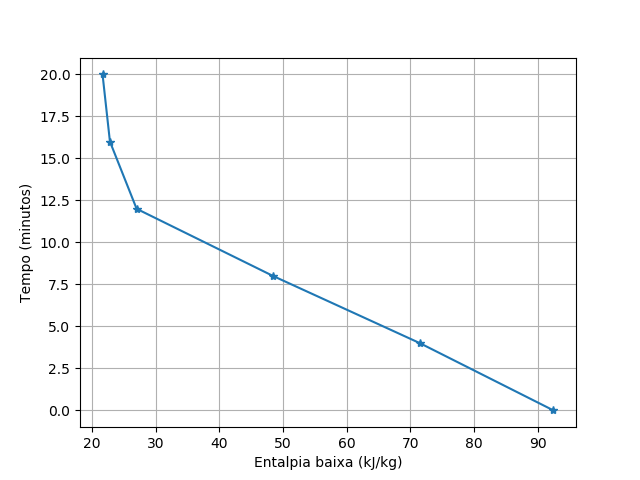
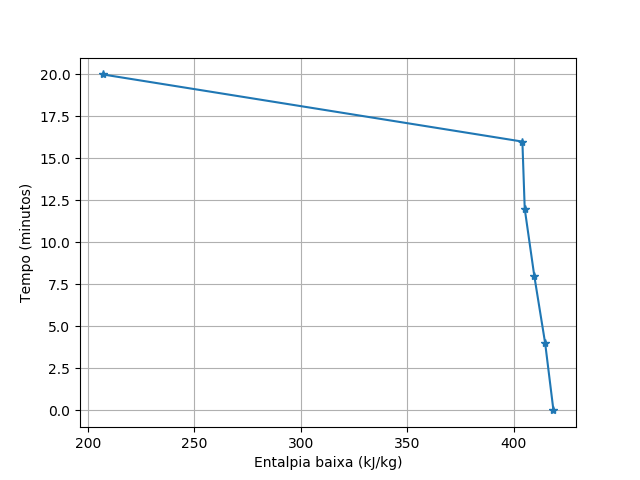
Novas atualizações

diff --git a/Relatorio_1.py b/Relatorio_1.py
@@ -1,0 +1,175 @@
+import matplotlib.pyplot as plt
+
+# dados coletados no experimento:
+
+tempo_min = [0, 4, 8, 12, 16, 20]
+temperatura_baixa = [22, 17, 11.5, 6.4, 5.4, 5]
+pressao_baixa = [0.268, 0.243, 0.258, 0.258, 0.268, 0.798]
+temperatura_alta = [22, 25.3, 30.2, 34.2, 37.5, 39.9]
+pressao_alta = [0.723, 0.798, 0.898, 0.968, 1.048, 1.088]
+entalpia_alta = [230.3, 235, 242, 247.8, 252.7, 256.2]
+entalpia_baixa = [418.7, 414.8, 409.7, 405.2, 404.1, 206.8]
+
+# cálculo das variações
+
+vetor_delta_entalpia_alta = [0, 0, 0, 0, 0, 0]
+vetor_delta_entalpia_baixa = [0, 0, 0, 0, 0, 0]
+
+# Qh
+
+aux = 0
+while(aux < (len(tempo_min) - 1)):
+    aux += 1
+    vetor_delta_entalpia_alta[aux] = entalpia_alta[aux] - entalpia_alta[0]
+
+# Ql
+
+aux = 0
+while(aux < (len(tempo_min) - 1)):
+    aux += 1
+    vetor_delta_entalpia_baixa[aux] = entalpia_baixa[aux] - entalpia_baixa[0]
+
+# Cálculo Beta no condensador
+
+beta = [0, 0, 0, 0, 0, 0]
+
+aux = 0
+while(aux < (len(tempo_min) -1)):
+    aux += 1
+    beta[aux] = (vetor_delta_entalpia_baixa[aux])/(vetor_delta_entalpia_alta[aux] - vetor_delta_entalpia_baixa[aux])
+
+# Cálculo do Beta linha no evaporador
+
+beta_linha = [0, 0, 0, 0, 0, 0]
+
+aux = 0
+while(aux < (len(tempo_min) - 1)):
+    aux += 1
+    beta_linha[aux] = (vetor_delta_entalpia_alta[aux])/(vetor_delta_entalpia_alta[aux] - vetor_delta_entalpia_baixa[aux])
+
+# delta entalpia alta
+
+plt.ylabel(r'$\Delta$' + 'Qh (kJ/kg)')
+plt.xlabel('Tempo (minutos)')
+plt.title('')
+plt.grid()
+
+plt.plot(tempo_min, vetor_delta_entalpia_alta, '*-')
+plt.savefig('figuras/delta_entalpia_alta_x_tempo.png')
+
+# tempo x pressao alta
+
+plt.cla() # clear axis
+plt.clf() # clear figure
+
+plt.xlabel('Tempo (minutos)')
+plt.ylabel('Pressão alta (MPa)')
+plt.title('')
+plt.grid()
+
+plt.plot(tempo_min, pressao_alta, '*-')
+plt.savefig('figuras/tempo_x_pressao_alta.png')
+
+# tempo x entalpia alta
+
+plt.cla() # clear axis
+plt.clf() # clear figure
+
+plt.xlabel('Tempo (minutos)')
+plt.ylabel('Entalpia alta (kJ/kg)')
+plt.title('')
+plt.grid()
+
+plt.plot(tempo_min, entalpia_alta, '*-')
+plt.savefig('figuras/tempo_x_entalpia_alta.png')
+
+# tempo x temperatura baixa
+
+plt.cla() # clear axis
+plt.clf() # clear figure
+
+plt.xlabel('Tempo (minutos)')
+plt.ylabel('Temperatura baixa (Celsius)')
+plt.title('')
+plt.grid()
+
+plt.plot(tempo_min, temperatura_baixa, '*-')
+plt.savefig('figuras/tempo_x_temperatura_baixa.png')
+
+# tempo x temperatura alta
+
+plt.cla() # clear axis
+plt.clf() # clear figure
+
+plt.xlabel('Tempo (minutos)')
+plt.ylabel('Temperatura alta (Celsius)')
+plt.title('')
+plt.grid()
+
+plt.plot(tempo_min, temperatura_alta, '*-')
+plt.savefig('figuras/tempo_x_temperatura_alta.png')
+
+# tempo x pressao baixa
+
+plt.cla() # clear axis
+plt.clf() # clear figure
+
+plt.xlabel('Tempo (minutos)')
+plt.ylabel('Pressão baixa (MPa)')
+plt.title('')
+plt.grid()
+
+plt.plot(tempo_min, pressao_baixa, '*-')
+plt.savefig('figuras/tempo_x_pressao_baixa.png')
+
+# tempo x entalpia baixa
+
+plt.cla() # clear axis
+plt.clf() # clear figure
+
+plt.ylabel(r'$\Delta$' + 'Ql (kJ/kg)')
+plt.xlabel('Tempo (minutos)')
+plt.title('')
+plt.grid()
+
+plt.plot(tempo_min, vetor_delta_entalpia_baixa, '*-')
+plt.savefig('figuras/delta_entalpia_baixa_x_tempo.png')
+
+# tempo x Ql
+
+plt.cla() # clear axis
+plt.clf() # clear figure
+
+plt.xlabel('Tempo (minutos)')
+plt.ylabel('Entalpia baixa (kJ/kg)')
+plt.title('')
+plt.grid()
+
+plt.plot(tempo_min, entalpia_baixa, '*-')
+plt.savefig('figuras/tempo_x_entalpia_baixa.png')
+
+# tempo x Beta
+
+plt.cla() # clear axis
+plt.clf() # clear figure
+
+plt.xlabel('Tempo (minutos)')
+plt.ylabel(r'$\beta$' + '')
+plt.title('')
+plt.grid()
+
+plt.plot(tempo_min, beta, '*-')
+plt.savefig('figuras/tempo_x_beta.png')
+
+# tempo x Beta_linha
+
+plt.cla() # clear axis
+plt.clf() # clear figure
+
+plt.xlabel('Tempo (minutos)')
+plt.ylabel(r'$\beta$'  + '\'')
+plt.title('')
+plt.grid()
+
+plt.plot(tempo_min, beta_linha, '*-')
+plt.savefig('figuras/tempo_x_beta_linha.png')

diff --git a/teste.py b/teste.py
@@ -1,0 +1,40 @@
+import matplotlib.pyplot as plt
+
+# dados coletados no experimento:
+
+tempo_min = [0, 4, 8, 12, 16, 20]
+temperatura_baixa = [22, 17, 11.5, 6.4, 5.4, 5]
+pressao_baixa = [0.268, 0.243, 0.258, 0.258, 0.268, 0.798]
+temperatura_alta = [22, 25.3, 30.2, 34.2, 37.5, 39.9]
+pressao_alta = [0.723, 0.798, 0.898, 0.968, 1.048, 1.088]
+entalpia_alta = [230.3, 235, 242, 247.8, 252.7, 256.2]
+entalpia_baixa = [418.7, 414.8, 409.7, 405.2, 404.1, 206.8]
+
+# cálculo das variações
+
+vetor_delta_entalpia_alta = [0, 0, 0, 0, 0, 0]
+vetor_delta_entalpia_baixa = [0, 0, 0, 0, 0, 0]
+
+# Qh
+
+aux = 0
+while(aux < (len(tempo_min) - 1)):
+    aux += 1
+    vetor_delta_entalpia_alta[aux] = entalpia_alta[aux] - entalpia_alta[0]
+
+# Ql
+
+aux = 0
+while(aux < (len(tempo_min) - 1)):
+    aux += 1
+    vetor_delta_entalpia_baixa[aux] = entalpia_baixa[aux] - entalpia_baixa[0]
+
+# delta entalpia alta
+
+plt.ylabel(r'$\Delta$' + 'Qh (kJ/kg)')
+plt.xlabel('Tempo (minutos)')
+plt.title('')
+plt.grid()
+
+plt.plot(tempo_min, vetor_delta_entalpia_alta, '*-')
+plt.savefig('figuras/delta_entalpia_alta_x_tempo.png')
